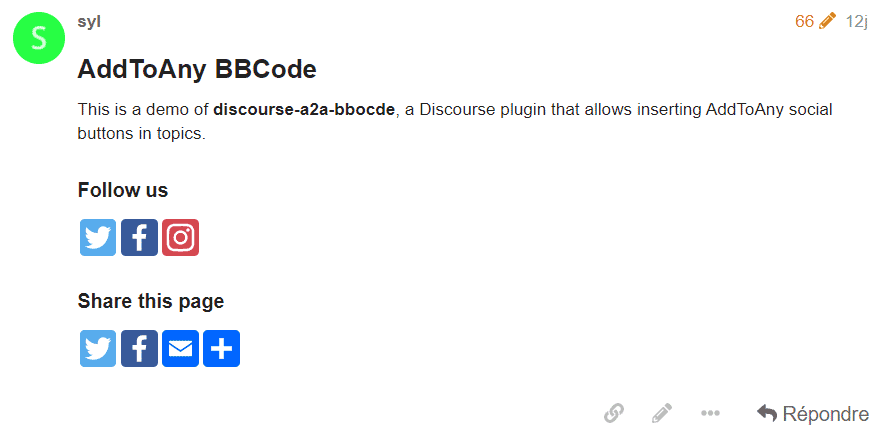
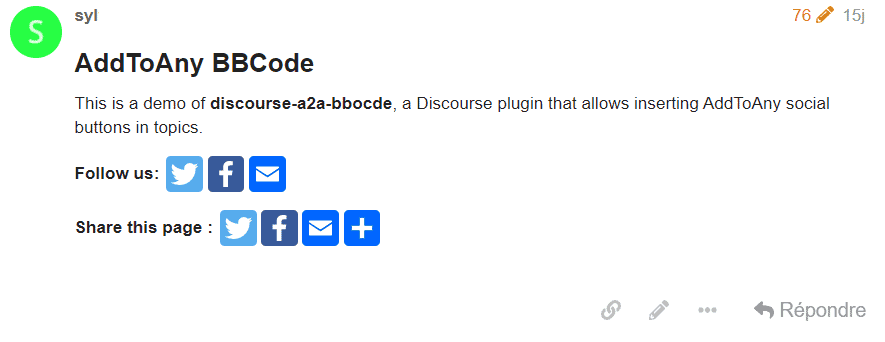
Support for href in abbfollow

diff --git a/README.md b/README.md
@@ -9,13 +9,15 @@ Social buttons can be limited to some categories only by using the `discourse a2
 ```
 # AddToAny BBCode
 
-This is a demo of **discourse-a2a-bbocde**, a Discourse plugin that allows inserting AddToAny social buttons in topics.
+This is a demo of **discourse-a2a-bbocde**, a Discourse plugin that allows 
+inserting AddToAny social buttons in topics.
 
-### Follow us
-[abbfollow user=ProjCastafiore services=twitter,facebook,instagram][/abbfollow]
+**Follow us:** [abbfollow user=ProjCastafiore services=twitter,facebook][/abbfollow]
+[abbfollow href=https://docs.google.com/forms/my-newsletter-registration-form services=email]
+[/abbfollow]
 
-### Share this page
-[abbshare services=twitter,facebook,email url=https://castafiore.org]I've discovered this amazing website![/abbshare]
+**Share this page :** [abbshare services=twitter,facebook,email 
+url=https://castafiore.org]I've discovered this amazing website![/abbshare]
 ```
 
 ![](screenshot.png)
